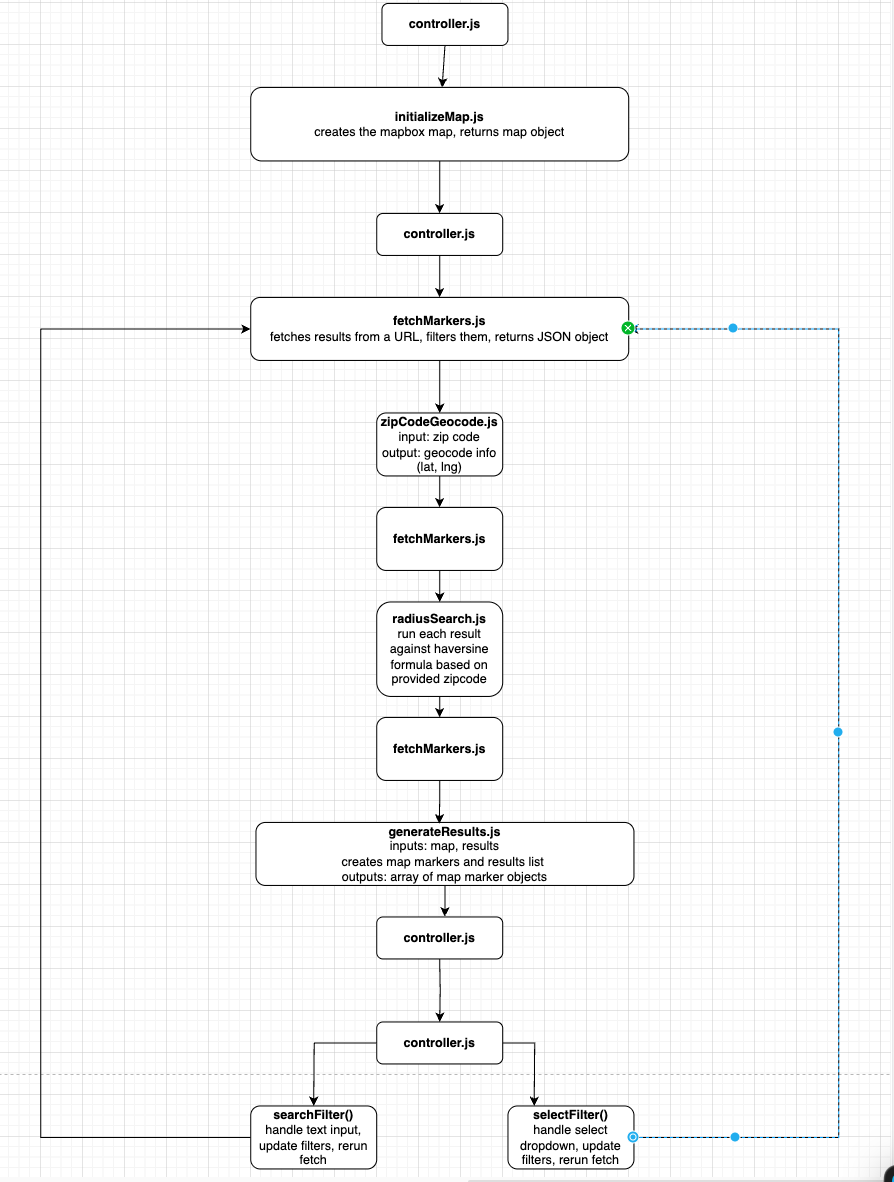
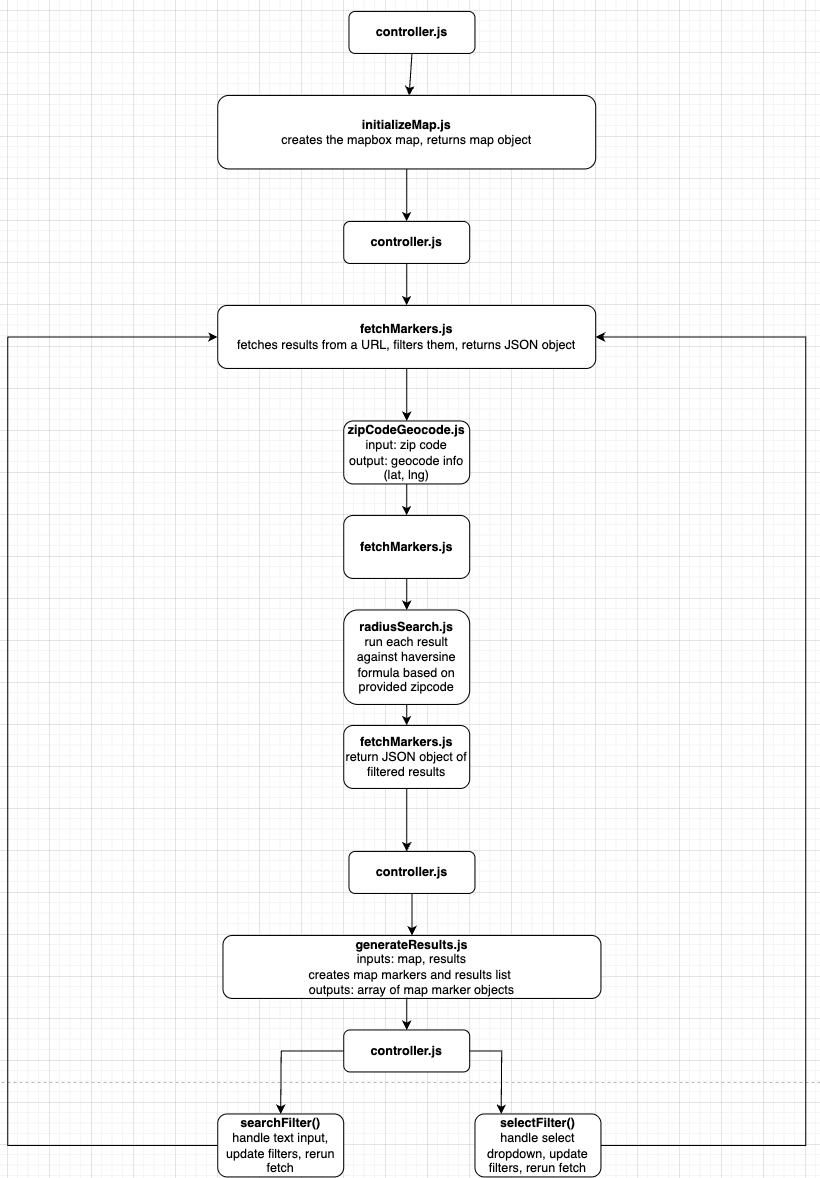
readme / uml diagram updates

diff --git a/readme.md b/readme.md
@@ -48,7 +48,7 @@ TODO: if you are returning data from ALM or facetWP, etc, make the array of resu
 
 These two functions handle changes to the select dropdown and the search text input. On submit, they take these values and re-run fetchMarkers.js and generateResults.js with the updated filters.
 
-### Helper functions
+## Helper functions
 
 #### zipCodeGeocode.js
 
@@ -68,6 +68,6 @@ this is an untested PHP version of the radiusSearch function. This would be used
 
 ## UML Diagram
 
-I haven't made one of these since college and completely forget the actual rules, but I tried to model this application to provide an easy to understand diagram.
+I haven't made one of these since college and completely forget the actual rules, but I tried to model this application to provide an easier way to understand the flow of data or whatever
 
 ![UML Diagram](uml.png)
